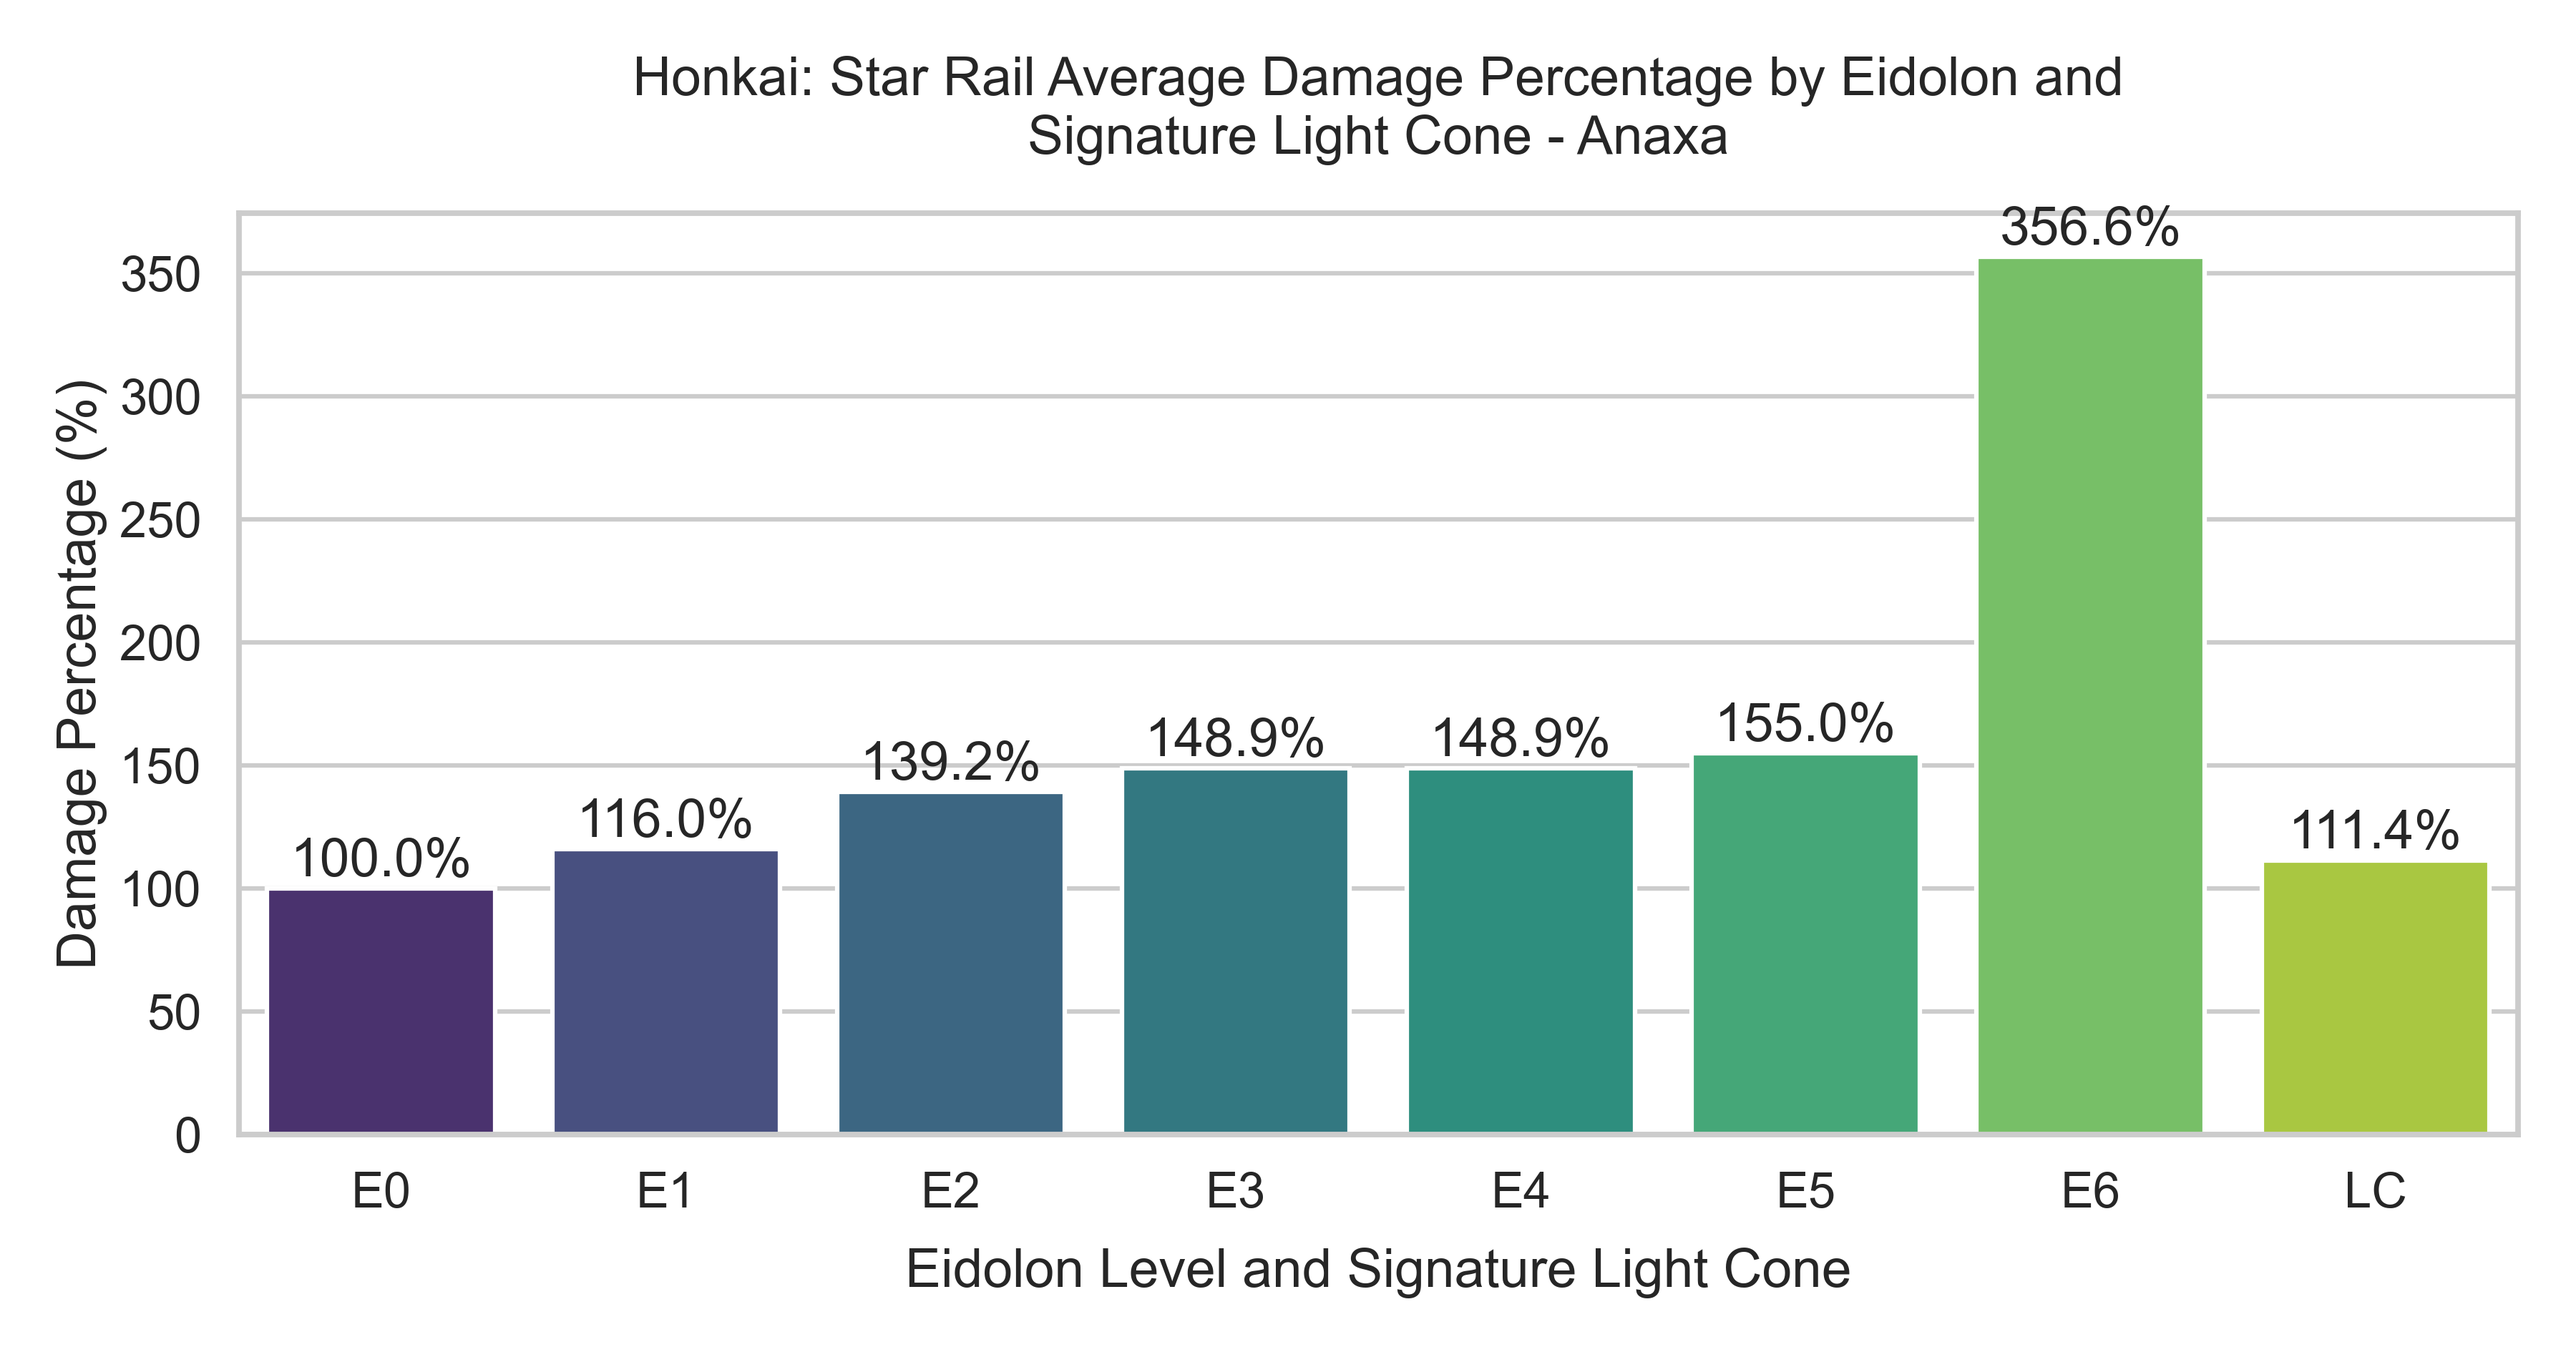
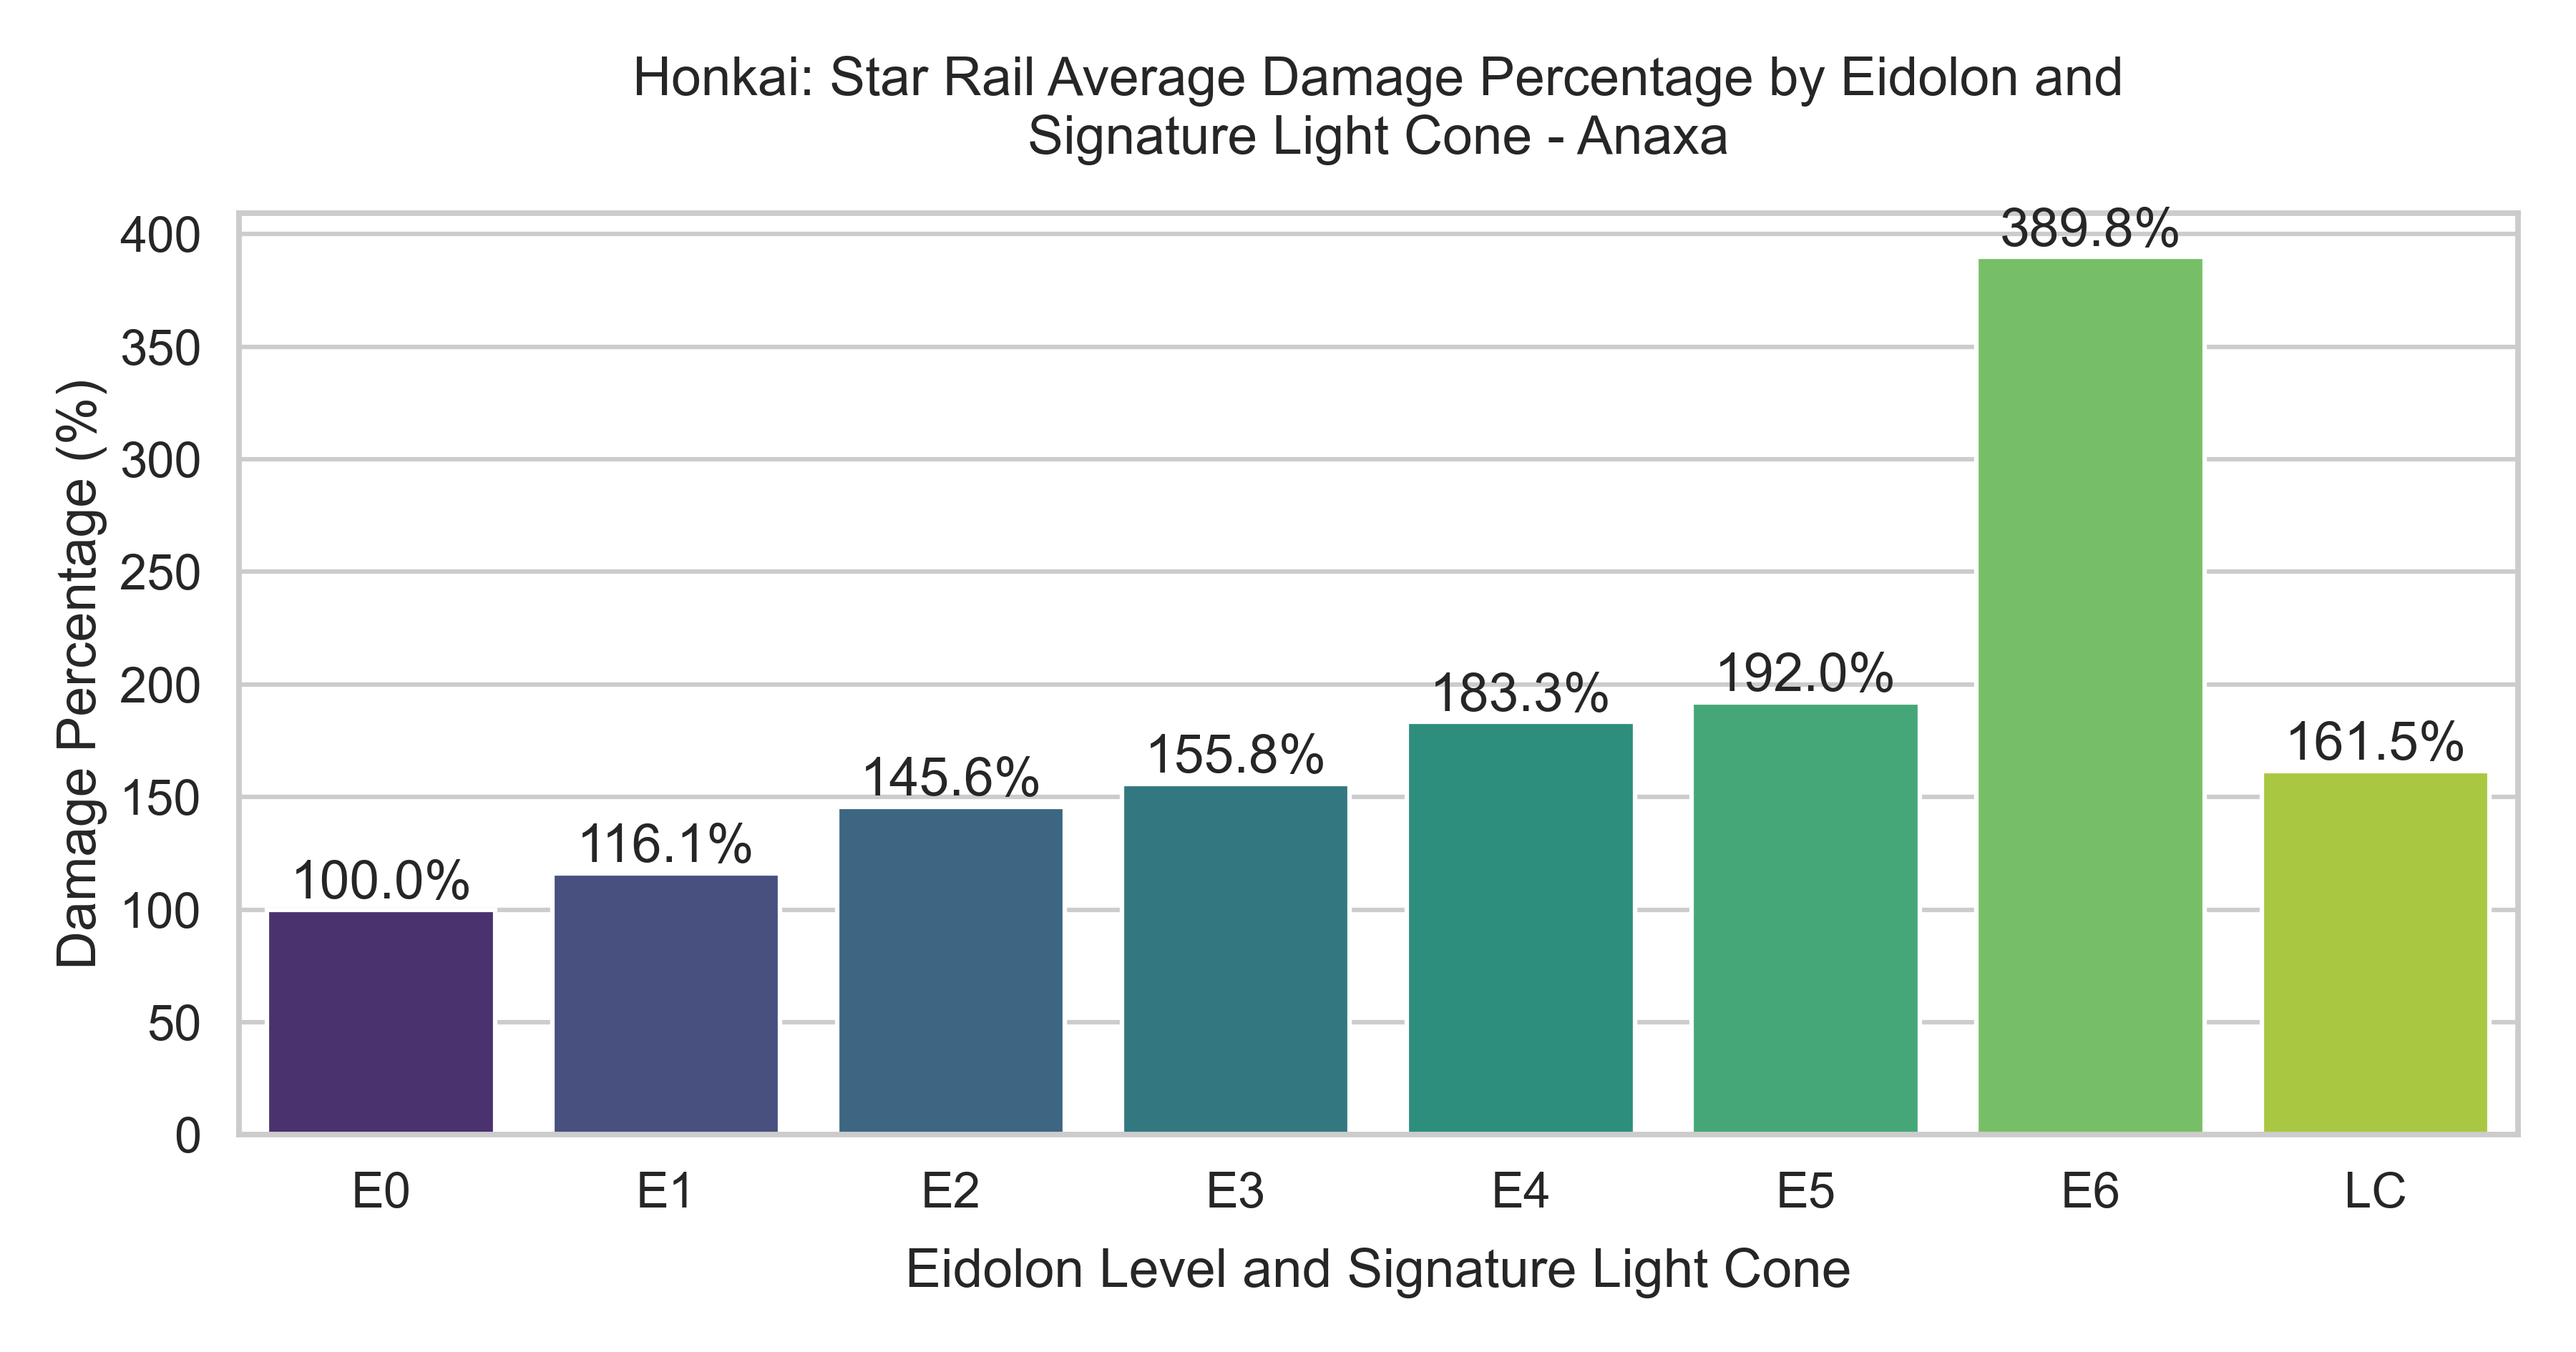
Add Anaxa character visualizations and logging configuration
- Updated VISUALS.md to include Anaxa character link.
- Introduced logger configuration in logger_config.py for better logging management.
- Refactored Anaxa class to improve damage calculation logic.
- Updated binary output images for Anaxa's damage analysis.

diff --git a/simulations/characters/erudition/anaxa.py b/simulations/characters/erudition/anaxa.py
@@ -45,11 +45,9 @@ class Anaxa(Character):
             self.qualitative_disclosure_mult = 0.324
 
         if has_e6:
-            e6_mult = 1.3
-            enchanced_a4_bufff_mult = self.calculate_dmg_increased_from_e6()
+            e6_buff_mult = self.calculate_dmg_increased_from_e6()
         else:
-            e6_mult = 0.0
-            enchanced_a4_bufff_mult = 0.0
+            e6_buff_mult = 0.0
 
         if has_lc:
             lc_mult = self.calculate_dmg_increased_from_lc()
@@ -76,8 +74,7 @@ class Anaxa(Character):
             * (1 + e1_mult)
             * (1 + e2_mult)
             * (1 + e4_mult)
-            * (1 + e6_mult)
-            * (1 + enchanced_a4_bufff_mult)
+            * (1 + e6_buff_mult)
             * (1 + lc_mult)
         )
 
@@ -203,6 +200,7 @@ class Anaxa(Character):
         BASE_BASIC_ATK_DMG = 500
         E6_CRIT_DMG_BONUS = 1.4  # 140%
         E6_ALLY_DMG_BONUS = 0.5  # 50%
+        ANAXA_DMG_MULT = 1.3
 
         def calculate_dmg(erudition_char_count: int, has_e6: bool) -> float:
             skill_points = BASE_SKILL_POINTS
@@ -216,16 +214,18 @@ class Anaxa(Character):
                 # E6: Both effects are always active, regardless of team comp
                 crit_dmg += E6_CRIT_DMG_BONUS * 2
                 crit_rate = 1.0  # Double crit rate for comparison
-                skill_dmg *= 1 + E6_ALLY_DMG_BONUS
-                basic_atk_dmg *= 1 + E6_ALLY_DMG_BONUS
+                skill_dmg *= (1 + E6_ALLY_DMG_BONUS) * (1 + ANAXA_DMG_MULT)
+                basic_atk_dmg *= (1 + E6_ALLY_DMG_BONUS) * (1 + ANAXA_DMG_MULT)
             else:
                 # Pre-E6: Only one effect based on erudition_char_count
                 if erudition_char_count == 1:
                     crit_dmg += E6_CRIT_DMG_BONUS * 2
                     crit_rate = 1.0
+                    skill_dmg *= 1 + ANAXA_DMG_MULT
+                    basic_atk_dmg *= 1 + ANAXA_DMG_MULT
                 elif erudition_char_count >= 2:
-                    skill_dmg *= 1 + E6_ALLY_DMG_BONUS
-                    basic_atk_dmg *= 1 + E6_ALLY_DMG_BONUS
+                    skill_dmg *= (1 + E6_ALLY_DMG_BONUS) * (1 + ANAXA_DMG_MULT)
+                    basic_atk_dmg *= (1 + E6_ALLY_DMG_BONUS) * (1 + ANAXA_DMG_MULT)
 
             # Calculate average damage per hit (crit weighted)
             avg_skill_dmg = skill_dmg * (1 + crit_rate * crit_dmg)

diff --git a/main.py b/main.py
@@ -2,6 +2,7 @@ from simulations.characters.base_character import Character
 from simulations.characters.erudition.anaxa import Anaxa
 from simulations.characters.harmony.ruan_mei import RuanMei
 from simulations.characters.remembrance.castorice import Castorice
+from simulations.logger_config import get_default_logger
 from simulations.simulation import run_simulations
 from simulations.visuals.plot_eidolon_value import (
     convert_simulation_data_to_avg_dmg,
@@ -10,21 +11,12 @@ from simulations.visuals.plot_eidolon_value import (
     calculate_marginal_value,
     plot_eidolon_value,
 )
-import logging
-
-# Set up default logger
-logger = logging.getLogger("hsr_eidolon_value_analysis")
-logger.setLevel(logging.INFO)
-if not logger.hasHandlers():
-    handler = logging.StreamHandler()
-    formatter = logging.Formatter(
-        "%(asctime)s - %(levelname)s - %(module)s:%(lineno)d -  %(message)s"
-    )
-    handler.setFormatter(formatter)
-    logger.addHandler(handler)
 
 
-def main():
+logger = get_default_logger()
+
+
+def main() -> None:
     # Initialize characters
     character_list: list[Character] = [RuanMei(), Castorice(), Anaxa()]
 

diff --git a/simulations/logger_config.py b/simulations/logger_config.py
@@ -1,0 +1,14 @@
+import logging
+
+
+def get_default_logger() -> logging.Logger:
+    logger = logging.getLogger("hsr_eidolon_value_analysis")
+    logger.setLevel(logging.INFO)
+    if not logger.hasHandlers():
+        handler = logging.StreamHandler()
+        formatter = logging.Formatter(
+            "%(asctime)s - %(levelname)s - %(module)s:%(lineno)d -  %(message)s"
+        )
+        handler.setFormatter(formatter)
+        logger.addHandler(handler)
+    return logger

diff --git a/docs/VISUALS.md b/docs/VISUALS.md
@@ -8,6 +8,7 @@ This document provides detailed information about the visualizations generated b
 
 ### Characters
 
+- [Anaxa](./character_visuals/ANAXA.md)
 - [Castorice](./character_visuals/CASTORICE.md)
 - [Ruan Mei](./character_visuals/RUAN_MEI.md)
 
